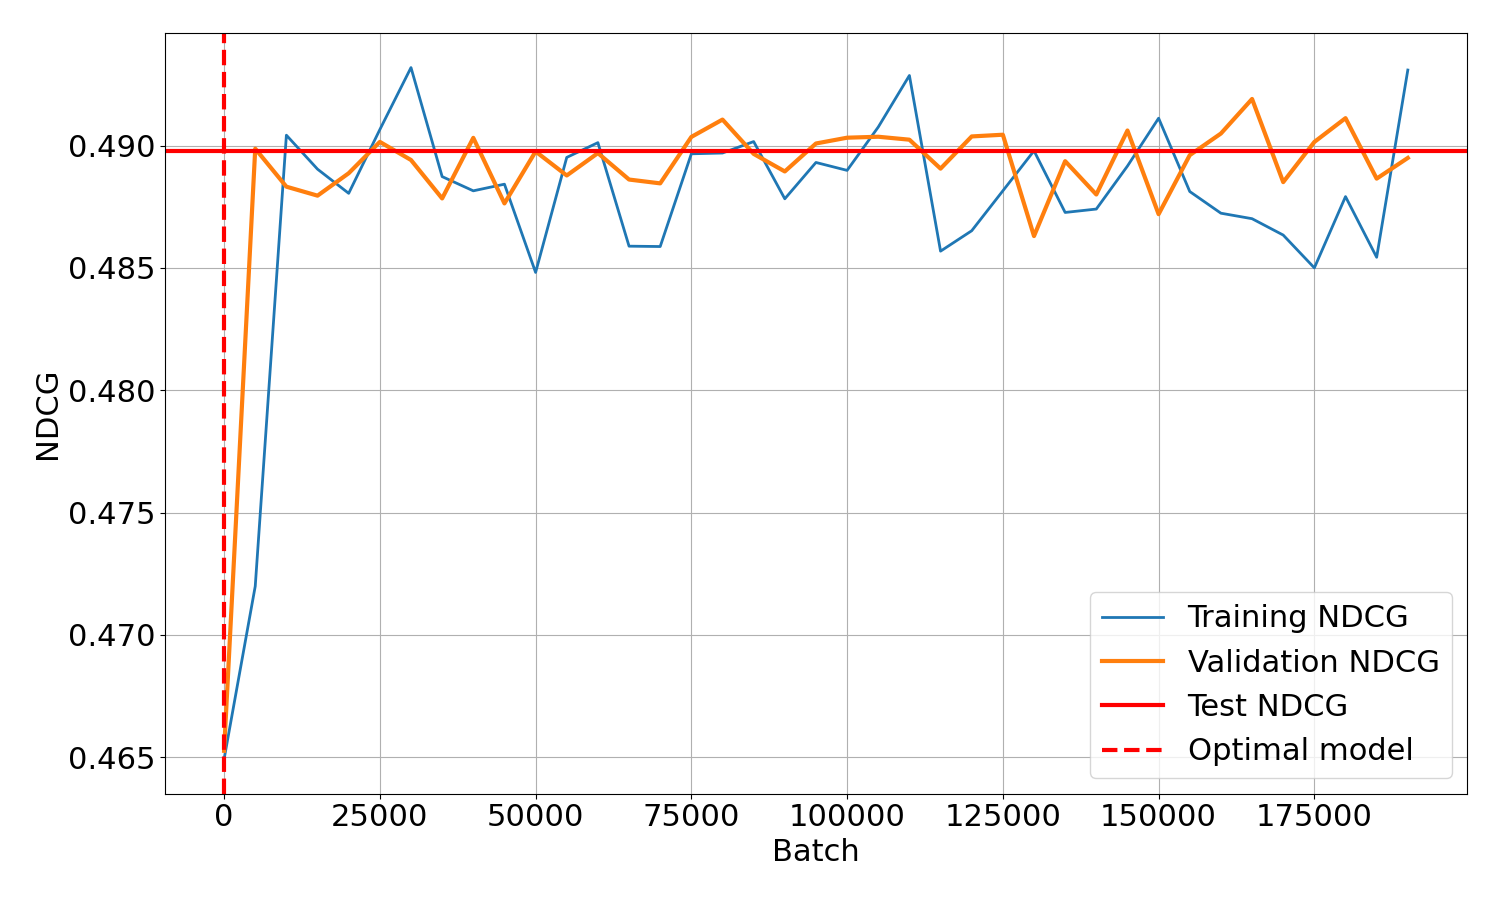
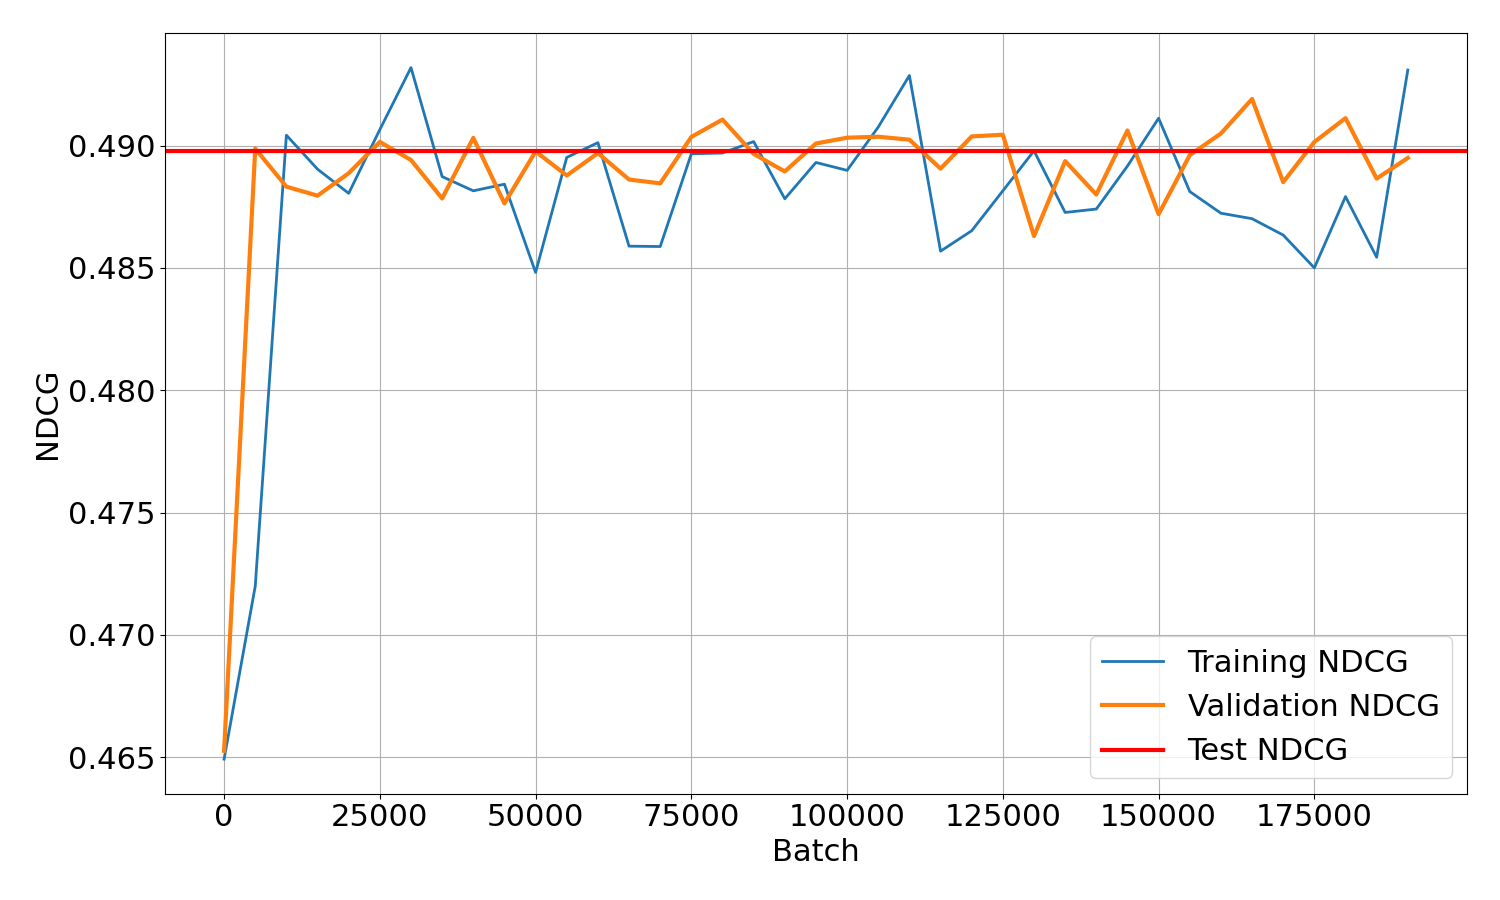
New images and models

Changed region(s): [[0.736, 0.6533, 0.9507, 0.8711], [0.736, 0.7778, 0.7667, 0.8089]]

diff --git a/code/train_ranknet.py b/code/train_ranknet.py
@@ -241,7 +241,7 @@ def plotting(train_losses, valid_losses, test_loss, variables_string, optimal_ba
     plt.plot(steps, train_losses, '-', lw=2, label="Training NDCG")
     plt.plot(steps, valid_losses, '-', lw=3, label="Validation NDCG")
     plt.axhline(test_loss, label="Test NDCG", color="red", lw=3)
-    plt.axvline(optimal_batch, linestyle="dashed", color='red', label="Optimal model", lw=3)
+    # plt.axvline(optimal_batch, linestyle="dashed", color='red', label="Optimal model", lw=3)
     # plt.title('Losses over training, including final test loss using optimal model')
 
 
